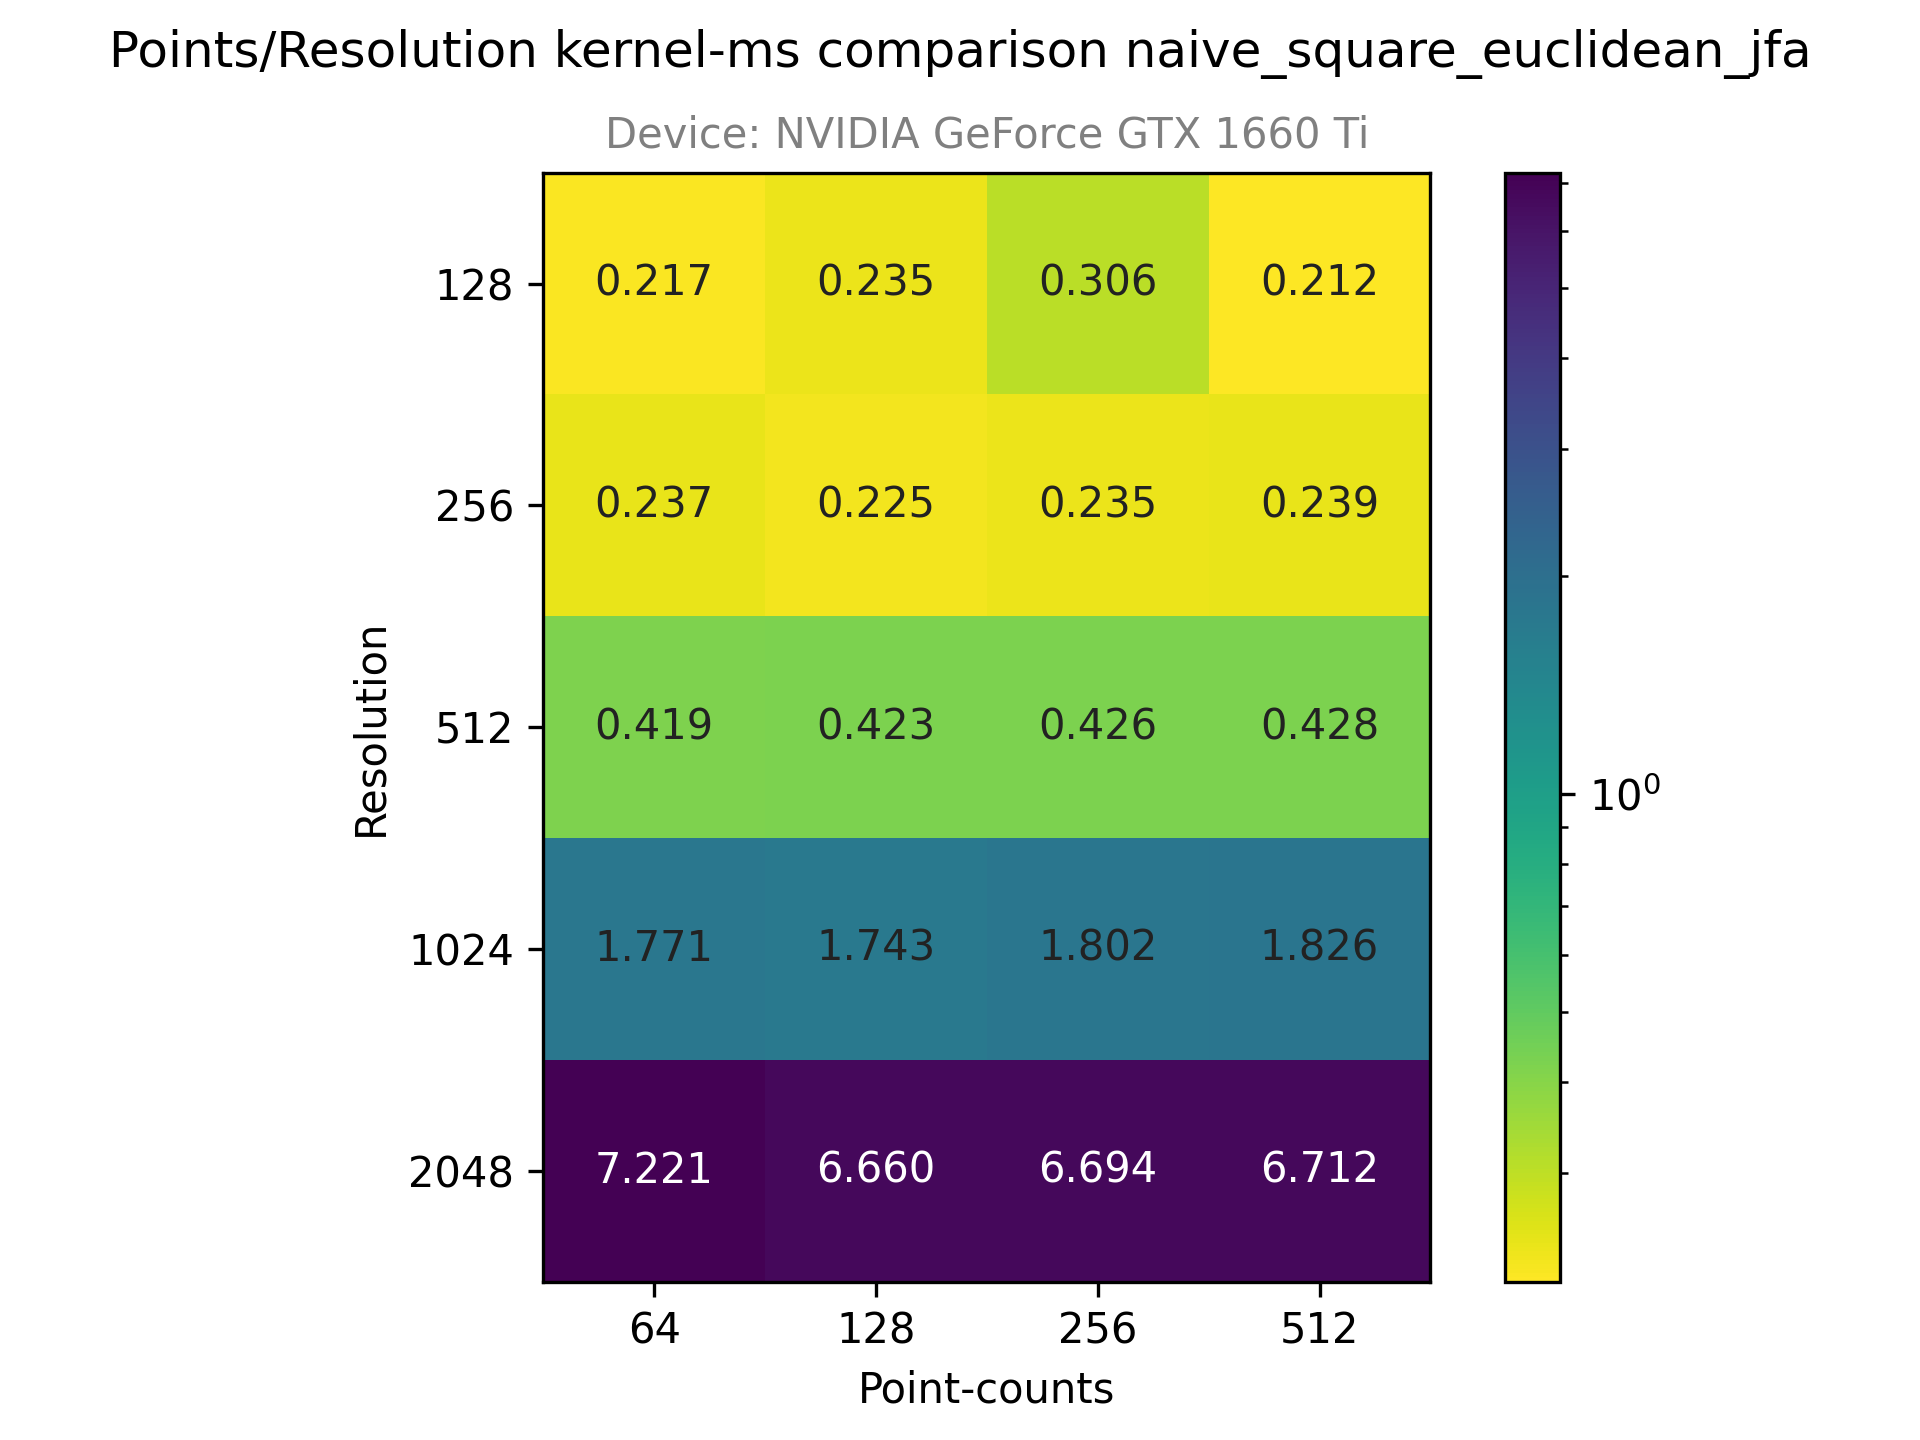
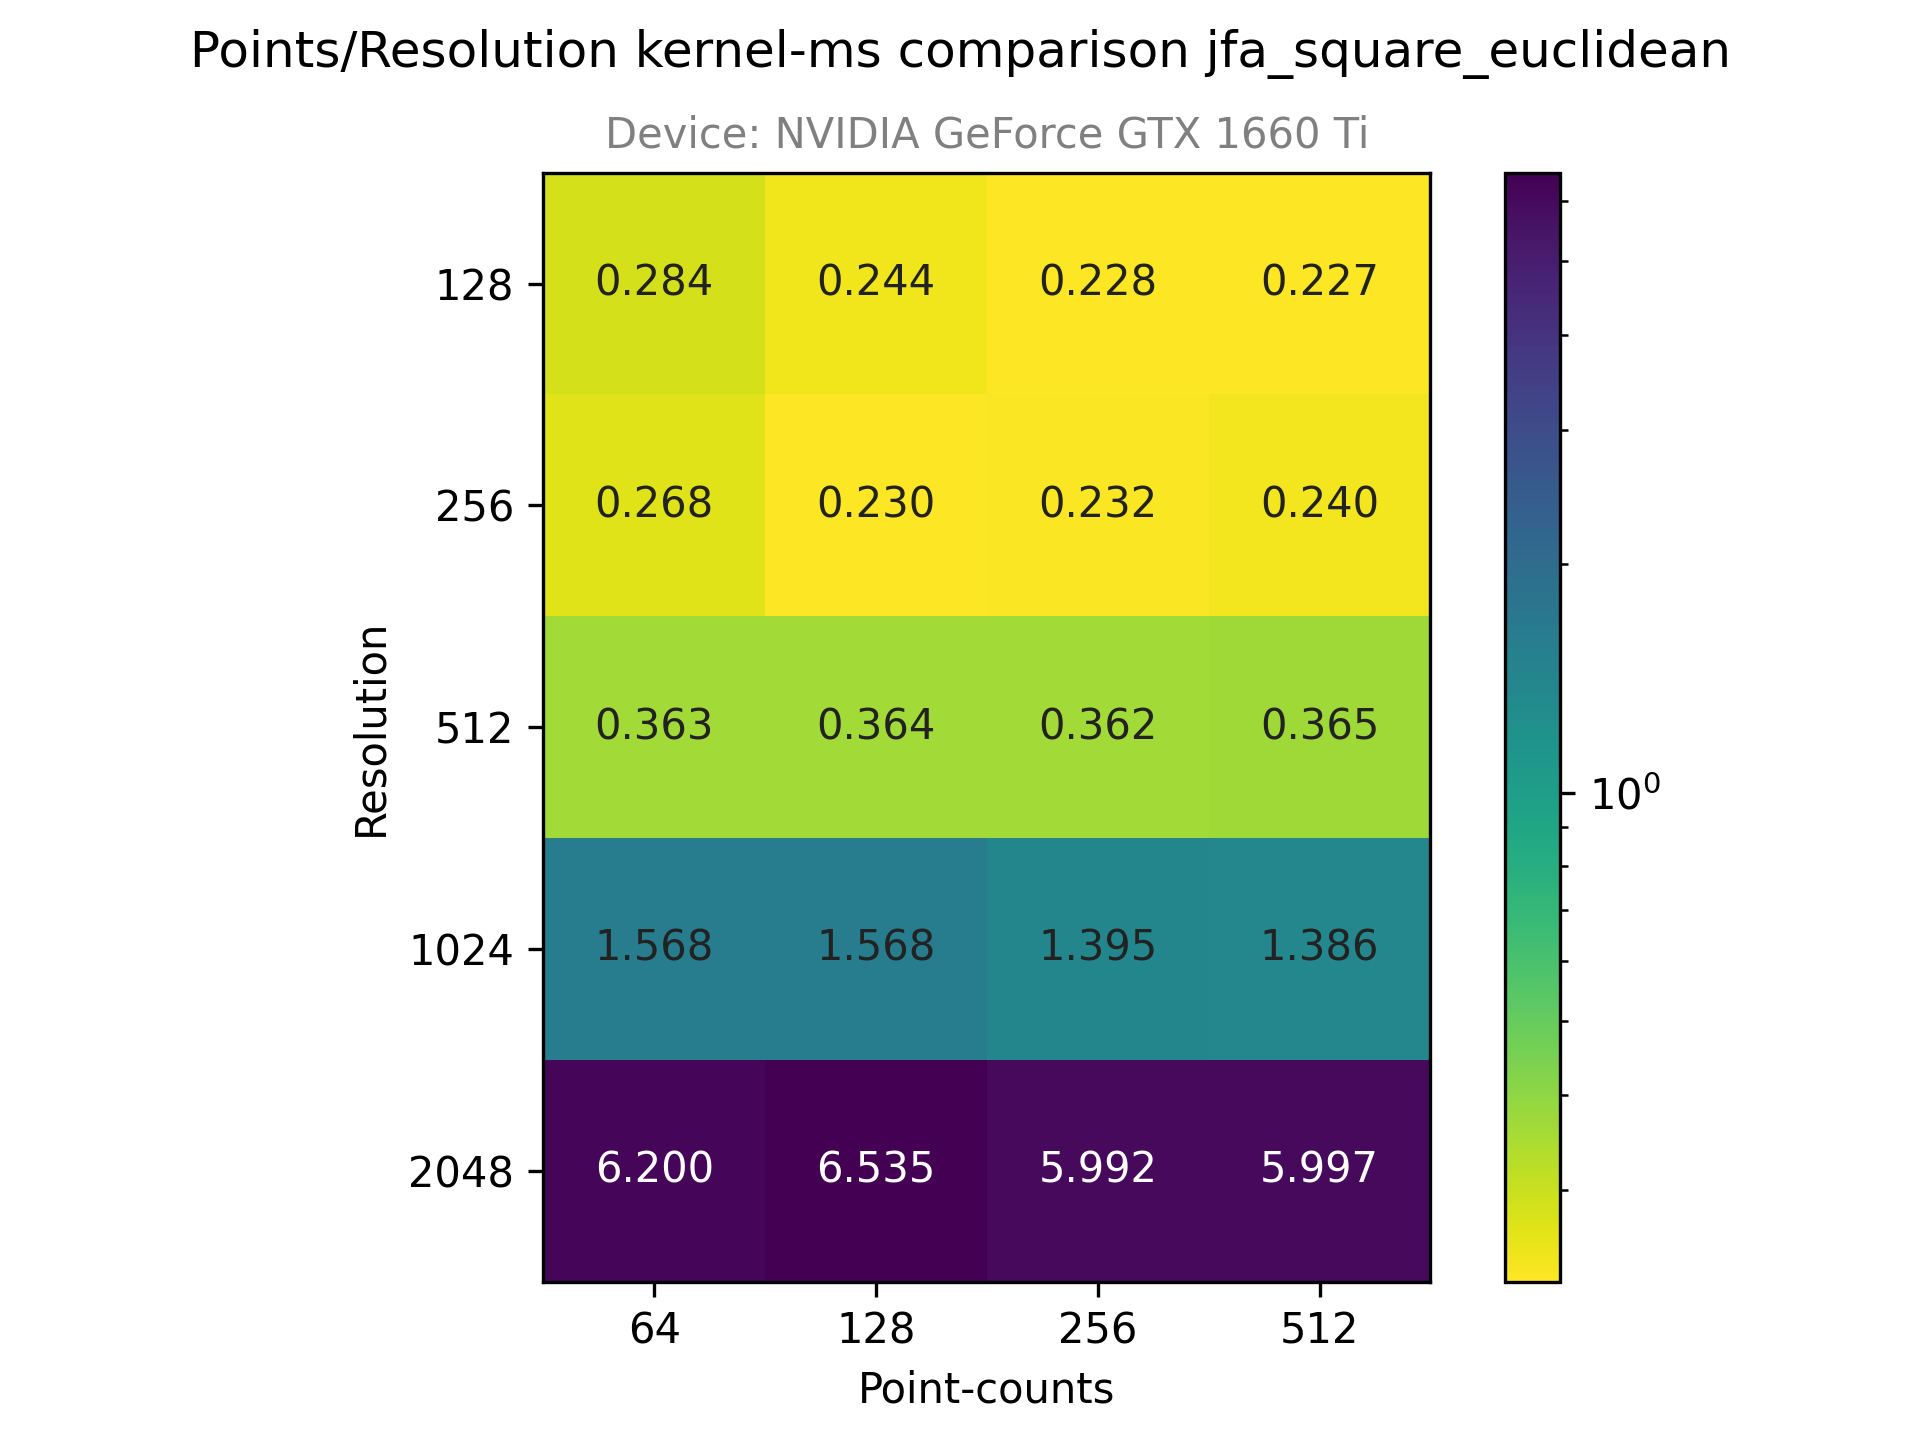
Fix wrong links and missing images in the JFA documentation

diff --git a/doc/README.md b/doc/README.md
@@ -668,7 +668,7 @@ Als Ursache für diese Fehler wird der Informationstransport des JFA über abneh
 
 Zur Verbesserung der Ergebnisse schlägt die Studie mehrere Varianten vor, um diese Fehler gezielt an den Voronoi-Eckpunkten und entlang der Kanten zu eliminieren - darunter `JFA+1` und `JFA+2`. Dabei wird zunächst der Standard-JFA durchgeführt. Am Ende werden jedoch zusätzliche Durchläufe mit einer Schrittweite von **1** (für `JFA+1`) beziehungsweise **2** und anschließend **1** (für `JFA+2`) angehängt. Diese lokalen Suchen erlauben es den betroffenen Pixeln, korrekte Daten aus ihrer unmittelbaren Nachbarschaft zu übernehmen, selbst wenn der primäre Ausbreitungspfad zuvor blockiert wurde.
 
-Um diesem Aspekt im Projekt quantitativ nachzugehen, wurde der naive JFA-Ansatz mit der quadrierten euklidischen Distanz (`_jfa_pass_square_euclidean_kernel`) mit der Referenzimplementierung aus der vorherigen Aufgabe (`_voroni_square_euclidean_kernel`) verglichen. Der pixelbasierte Algorithmus dient dabei als exakte `100%`-Referenz. Der Vergleich wurde mit einer Auflösung von **$2048 \times 2048$ Pixeln** und **512** Punkten durchgeführt.
+Um diesem Aspekt im Projekt nachzugehen, wurde der naive JFA-Ansatz mit der quadrierten euklidischen Distanz (`_jfa_pass_square_euclidean_kernel`) mit der Referenzimplementierung aus der vorherigen Aufgabe (`_voroni_square_euclidean_kernel`) verglichen. Der pixelbasierte Algorithmus dient dabei als exakte `100%`-Referenz. Der Vergleich wurde mit einer Auflösung von **$2048 \times 2048$ Pixeln** und **512** Punkten durchgeführt.
 
 Die folgenden _Error Maps_ visualisieren die Abweichungen der verschiedenen JFA-Varianten, wobei identische Zuordnungen schwarz und fehlerhafte Pixel rot dargestellt werden:
 
@@ -774,13 +774,13 @@ Die Diagramme der Manhattan-Distanz zeigen vergleichbare Laufzeiten und Verhalte
 
 _Was liefert die ncu-Analyse?_
 
-Schaut man sich die ncu-erzeugten Logdateien [square_euclidean_ncu](../data/ncu_NVIDIA-GeForce-RTX-5070_sqaure_euclidean_jfa_resolution=2048_points=512.log) und [manhattan_ncu](../data/ncu_NVIDIA-GeForce-RTX-5070_manhattan_jfa_resolution=2048_points=512.log) an, fällt zunächst auf, dass für jeden Iterationsschritt ein separater Eintrag anlegt wird (Auflösung von `2048` mit `512` Punkten). Dies liegt daran, dass ncu für jeden der insgesamt **11** Kernelaufrufe ($\log_2(2048) = 11$) eine separate Analyse durchführt. Da die Performance-Metriken der quadratischen euklidischen Distanz und der Manhattan-Distanz nahezu identisch sind, beschränkt sich die weitere Analyse exemplarisch auf die euklidische Metrik.
+Schaut man sich die ncu-erzeugten Logdateien [square euclidean ncu](../data/ncu_NVIDIA-GeForce-RTX-5070_jfa_sqaure_euclidean_resolution=2048_points=512.log) und [manhattan ncu](../data/ncu_NVIDIA-GeForce-RTX-5070_jfa_manhattan_resolution=2048_points=512.log) an, fällt zunächst auf, dass für jeden Iterationsschritt ein separater Eintrag anlegt wird (Auflösung von `2048` mit `512` Punkten). Dies liegt daran, dass ncu für jeden der insgesamt **11** Kernelaufrufe ($\log_2(2048) = 11$) eine separate Analyse durchführt. Da die Performance-Metriken der quadratischen euklidischen Distanz und der Manhattan-Distanz nahezu identisch sind, beschränkt sich die weitere Analyse exemplarisch auf die euklidische Metrik.
 
 Ein interessanter Aspekt ist die Betrachtung der Laufzeit (_Duration_) auf der GPU in der _Section: GPU Speed Of Light Throughput_. Summiert man die Werte aller 11 Iterationen, erhält man die kumulierte Kernellaufzeit - ohne Overhead des Python-Interpreters für das Tauschen der Gitter und der Berechnung der neuen Schrittweite:
 
 $$t_{\mathrm{kernel}} = 158.34 + 140.83 + 138.75 + 139.78 + 140.13 + 141.28 + 144.64 + 132.51 + 128.58 + 125.18 + 125.66 = 1515.68 \mathrm{µs}$$
 
-Vergleicht man diese ca. **1,516 ms** mit dem in der Performancemessung (Heatmap) ermittelten Gesamtwert von **1,592 ms** (Auflösung=$2048$, Punkte=$512$, quadratische euklidische Distanz, `RTX 5070`), zeigt sich eine sehr hohe Übereinstimmung. Die geringe Differenz von rund **0,076 ms** lässt sich auf den CPU- und Synchronisations-Overhead zurückführen, der mit steigender Iterationsanzahl leicht zunimmt. Dies verifiziert, dass die verwendete Methode zur Leistungsmessung valide und nah arbeitet.
+Vergleicht man diese ca. **1,516 ms** mit dem in der Performancemessung ([Heatmap](../data/performance_matrix_NVIDIA-GeForce-RTX-5070_jfa_square_euclidean_resolution=128,256,512,1024,2048_points=64,128,256,512.png)) ermittelten Gesamtwert von **1,525 ms** (Auflösung=$2048$, Punkte=$512$, quadratische euklidische Distanz, `RTX 5070`), zeigt sich eine sehr hohe Übereinstimmung. Die geringe Differenz von rund **0,09 ms** lässt sich auf den CPU- und Synchronisations-Overhead zurückführen, der mit steigender Iterationsanzahl leicht zunimmt. Dies verifiziert, dass die verwendete Methode zur Leistungsmessung valide arbeitet.
 
 Darüber hinaus identifiziert die ncu-Analyse auch den primären Flaschenhals des JFA: Der Kernel ist **memory-bound** (speicherbandbreitenbegrenzt). Zwar scheint die Auslastung in einzelnen Iterationen ausgewogen (NCU meldet: _"Compute and Memory are well-balanced"_), der überwiegende Hinweis ist jedoch, dass der Speicher stärker genutzt wird als der Compute: _"Memory is more heavily utilized than Compute"_. Bei der Manhattan-Distanz ist dies noch deutlicher zu erkennen. Der Durchsatz des Speichers (_Memory Throughput_) liegt in der ersten Iteration bei `81,08 %` und sinkt in den späteren Verläufen leicht auf Werte um die `70 %`. Im Gegensatz dazu starten die Recheneinheiten (_Compute (SM) Throughput_) bei lediglich `30,42 %` und erreichen zum Ende hin `65,21 %`. Ausschlaggebend ist hierbei die Auslastung der Caches L1 und L2. Zu Beginn des Algorithmus ist die Schrittweite sehr groß. Benachbarte Threads eines Warps fragen Pixeldaten ab, die im globalen Speicher weit auseinanderliegen. Die Caches können diese verstreuten Daten kaum puffern, weshalb die Recheneinheiten auf Daten warten müssen und blockieren. Bei kleinen Schrittweiten am Ende des Algorithmus liegen die benötigten Nachbarpixel im Speicher hingegen nah beieinander. Das zeigt auch der _L1/TEX Cache Throughput_ bzw. _L2 Cache Throughput_: Zu Beginn ist die Aulastung bei `23,00 %` bzw. `30,82 %` und erreicht im Laufe des JFA maximale Werte von `55,06 %` bzw. `66,95 %`. Dadurch kann der Zugriff auf den globalen VRAM reduziert und die Rechenauslastung teilweise erhöht werden. Nichtsdestotrotz dominieren die Speicherzugriffe die Kernellaufzeit (**memory-bound**).
 
@@ -830,7 +830,7 @@ Für die `RTX 5070` ist die Laufzeit zu Beginn ($k = 1024) maximal und sinkt in 
 
 Bei der `GTX 1660 Ti` verhält es sich anders: Die Laufzeit ist zu Beginn ($k = 1024$) recht niedrig, steigt dann für die mittleren Schrittweiten an und flacht für die kleinen wieder ab (parabelförmiges Verhalten). Bei $k = 1024$ liegen viele Nachbarpixel außerhalb des logischen Bildes und müssen somit gar nicht geprüft werden. Dadurch muss keine Speicheranfrage an das globale VRAM gestellt werden, was zu einer reduzierten Kernellaufzeit führt (_Out-of-Bounds-Effekt_). Mit abnehmender Schrittweite liegen immer mehr Nachbarpixel im Raster, wodurch mehr Daten geladen werden müssen und die Kernellaufzeit steigt. Ab $k = 32$ greift dann auch bei der GTX der oben beschriebene Cache-Effekt, der in einer reduzierten Kernellaufzeit resultiert und die Kurve somit abflacht.
 
-Zu beachten ist, dass die ncu-Analyse hier mit der `RTX 5070` durchgeführt wurde (vgl. [Anhang](#anhang)) und es starke Hardwareunterschiede zu der `GTX 1660 Ti` gibt. Das aus der ncu-Analyse resultierende Verhalten muss nicht direkt für die `GTX 1660 Ti` gelten. Der L1- und L2-Cache der `RTX 5070` ist beispielsweise deutlich größer als der der `GTX 1660 Ti`, weshalb der Effekt deutlich früher eintritt (vgl. [Vergleich](https://technical.city/de/video/GeForce-GTX-1660-Ti-vs-GeForce-RTX-5070)).
+Zu beachten ist, dass die ncu-Analyse hier mit der `RTX 5070` durchgeführt wurde (vgl. [Anhang](#anhang)) und es starke Hardwareunterschiede zu der `GTX 1660 Ti` gibt. Das aus der ncu-Analyse resultierende Verhalten muss nicht direkt für die `GTX 1660 Ti` gelten. Der L1- und L2-Cache der `RTX 5070` ist beispielsweise deutlich größer als der der `GTX 1660 Ti`, weshalb der Effekt deutlich früher eintritt (vgl. [GPU-Vergleich](https://technical.city/de/video/GeForce-GTX-1660-Ti-vs-GeForce-RTX-5070)).
 
 ## Aufgabe 6b - Optimierungen
 
@@ -941,7 +941,7 @@ Auch hier zeigt sich wieder die typische JFA-Charakteristik bezüglich der Laufz
 
 - Die hardwareseitigen L1- und L2-Caches leisten bereits bei der naiven Implementierung einen enormen Beitrag bei den kleinen Schrittweiten, wodurch der softwareseitig verwaltete Shared-Memory-Buffer keinen signifikanten Zusatznutzen mehr generieren kann.
 
-Die von ncu erzeugte [Datei](../data/ncu_NVIDIA-GeForce-RTX-5070_square_euclidean_jfa_shared_resolution=2048_points=512.log) unterstreicht das. In den Iterationen 1 bis 8 meldet ncu ein Memory-Bound-Problem, da hier noch der naive Ansatz über VRAM als Fallback verwendet wird (vgl. ncu Analse der naiven Implementation). Ab Iteration 9 (Schrittweite 4) greift die Shared-Memory-Pipeline, und ncu meldet nun eine höhere Compute- als Memory-Auslastung. Das zeigt zwar, dass der Shared-Memory-Ansatz hier den ursprünglichen Speicher-Engpass auf die Recheneinheiten verlagert, dieser Effekt jedoch durch den zusätzlichen Rechenaufwand (Indexberechnung via Ganzzahl-Division/Modulo, Synchronisationsbarriere) wieder kompensiert wird, wodurch unterm Strich keine Laufzeitverbesserung gegenüber der naiven Implementierung entsteht.
+Die von [ncu erzeugte Datei](../data/ncu_NVIDIA-GeForce-RTX-5070_jfa_shared_square_euclidean_resolution=2048_points=512.log) unterstreicht das. In den Iterationen 1 bis 8 meldet ncu ein Memory-Bound-Problem, da hier noch der naive Ansatz über VRAM als Fallback verwendet wird (vgl. ncu Analse der naiven Implementation). Ab Iteration 9 (Schrittweite 4) greift die Shared-Memory-Pipeline, und ncu meldet nun eine höhere Compute- als Memory-Auslastung. Das zeigt zwar, dass der Shared-Memory-Ansatz hier den ursprünglichen Speicher-Engpass auf die Recheneinheiten verlagert, dieser Effekt jedoch durch den zusätzlichen Rechenaufwand (Indexberechnung via Ganzzahl-Division/Modulo, Synchronisationsbarriere) wieder kompensiert wird, wodurch unterm Strich keine Laufzeitverbesserung gegenüber der naiven Implementierung entsteht.
 
 <!-- Abschließend lässt sich festhalten, dass die Optimierung mittels Shared Memory beim JFA **keinen Performancegewinn** erzielt hat. Dies liegt vor allem an der Natur des Algorithmus selbst: Ein softwareseitiges Caching im Shared Memory ist konzeptionell überhaupt erst bei kleinen Schrittweiten möglich. Doch selbst bei diesen konnte kein Gewinn erzielt werden. Hier ist die Redundanz der Speicherzugriffe innerhalb eines Thread-Blocks nicht hoch genug, um den zusätzlichen Overhead für das kollaborative Laden, die Thread-Synchronisation und die Indexberechnung mittels Division und Modulo zu kompensieren. -->
 
@@ -965,7 +965,7 @@ Um globale Speicherzugriffe zu bündeln, wird in diesem Optimierungsschritt das 
 X0 X1 X2 X3 ... Y0 Y1 Y2 Y3 ...
 ```
 
-Wenn nun die 32 Threads eines Warps die X-Koordinaten von 32 nebeneinanderliegenden Pixeln abfragen, liegen diese Daten lückenlos hintereinander im Speicher. Die Hardware kann diese Anfrage in einer Speichertransaktion (Coalesced Access) abarbeiten. Das Gleiche gilt anschließend für die Y-Koordinaten (vgl. [hier](https://forums.developer.nvidia.com/t/structures-of-arrays-vs-arrays-of-structures/13581)).
+Wenn nun die 32 Threads eines Warps die X-Koordinaten von 32 nebeneinanderliegenden Pixeln abfragen, liegen diese Daten lückenlos hintereinander im Speicher. Die Hardware kann diese Anfrage in einer Speichertransaktion (Coalesced Access) abarbeiten. Das Gleiche gilt anschließend für die Y-Koordinaten (vgl. [Forum-Beitrag](https://forums.developer.nvidia.com/t/structures-of-arrays-vs-arrays-of-structures/13581)).
 
 _Umsetzung für JFA_
 
@@ -1003,7 +1003,7 @@ Ein Vergleich der Messdaten mit der naiven quadratischen euklidischen Implementi
 
 - Das theoretische _Memory Coalescing_ von SoA setzt voraus, dass die Threads **lückenlos** auf benachbarte Adressen zugreifen. Beim JFA ist dies durch die variierenden Sprungweiten (`step_size`) in der horizontalen und insbesondere in der vertikalen Dimension (Zeilensprünge) über die meisten Iterationen hinweg nicht gegeben. Da die Threads dadurch ohnehin nicht zusammenhängende Speichersegmente anfordern müssen, kann der Strukturvorteil von SoA nicht greifen.
 
-Die [ncu-Datei](../data/ncu_NVIDIA-GeForce-RTX-5070_square_euclidean_jfa_SoA_resolution=2048_points=512.log) zeigt, dass in der Iteration 1 bis 3 der Speicher mehr ausgelastet ist als der Compute. Ab Iteration 4 bis zum Ende meldet ncu dann, dass beide Aspekte gut ausgeglichen sind (_Compute and Memory are well-balanced_).
+Die [ncu-Datei](../data/ncu_NVIDIA-GeForce-RTX-5070_jfa_soa_square_euclidean_resolution=2048_points=512.log) zeigt, dass in der Iteration 1 bis 3 der Speicher mehr ausgelastet ist als der Compute. Ab Iteration 4 bis zum Ende meldet ncu dann, dass beide Aspekte gut ausgeglichen sind (_Compute and Memory are well-balanced_).
 
 <!-- TODO: Erklärung wieso? -->
 